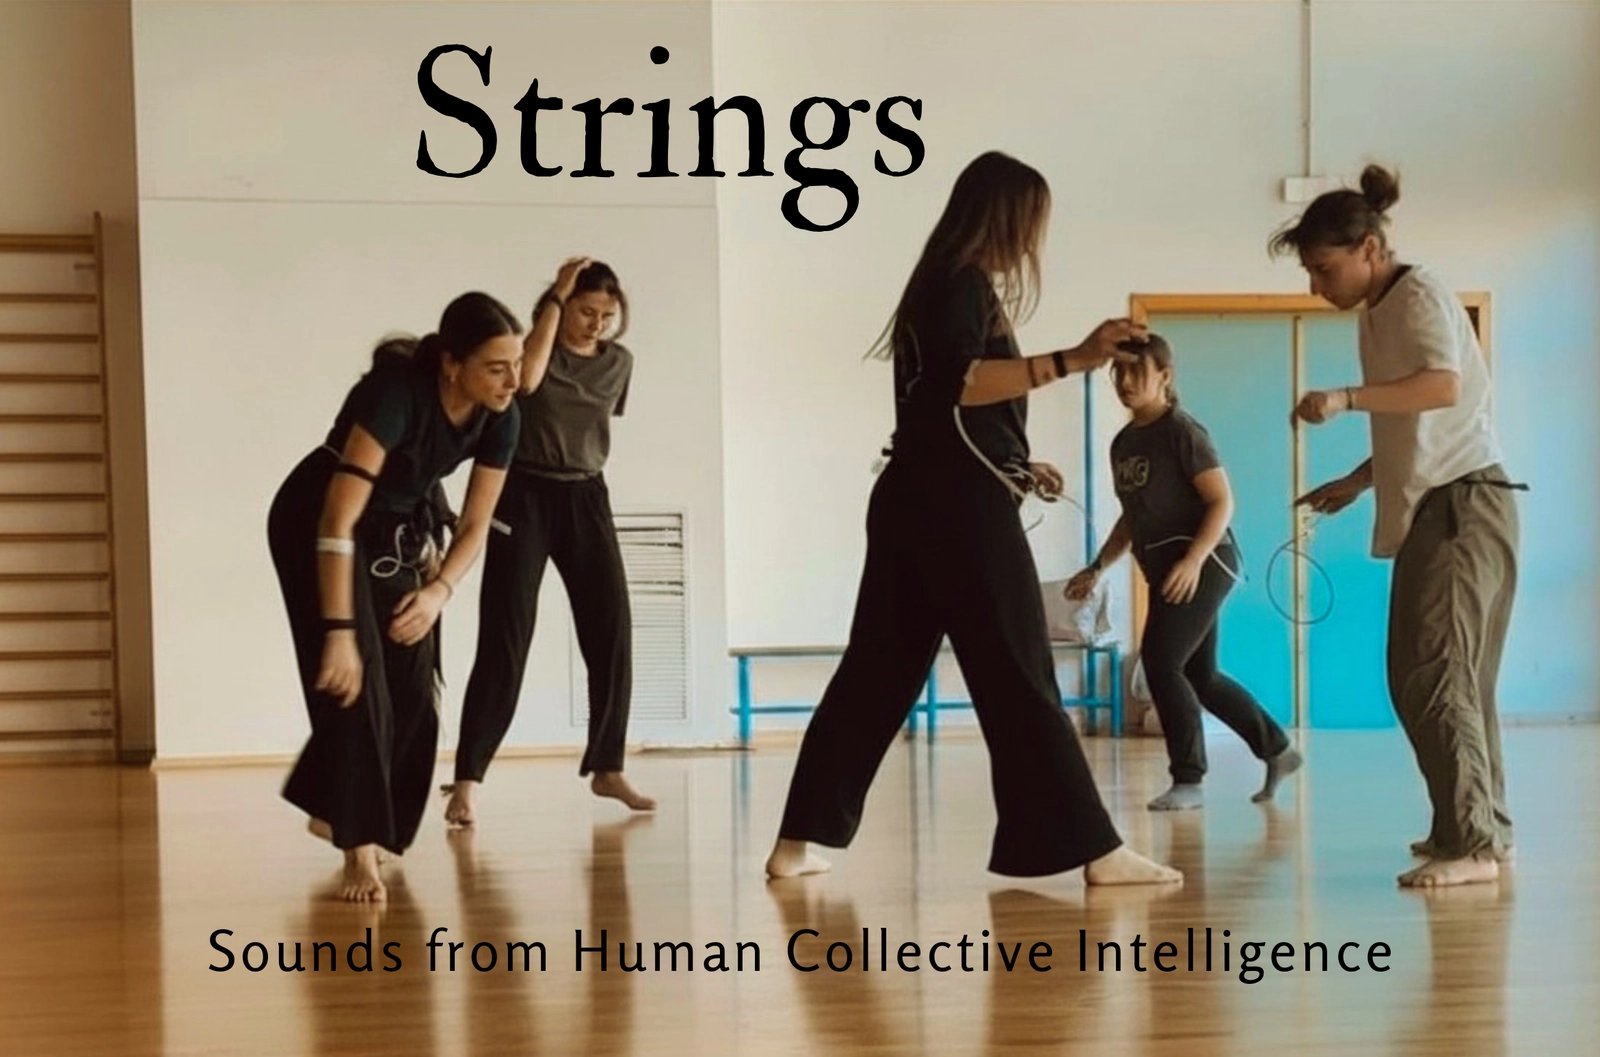
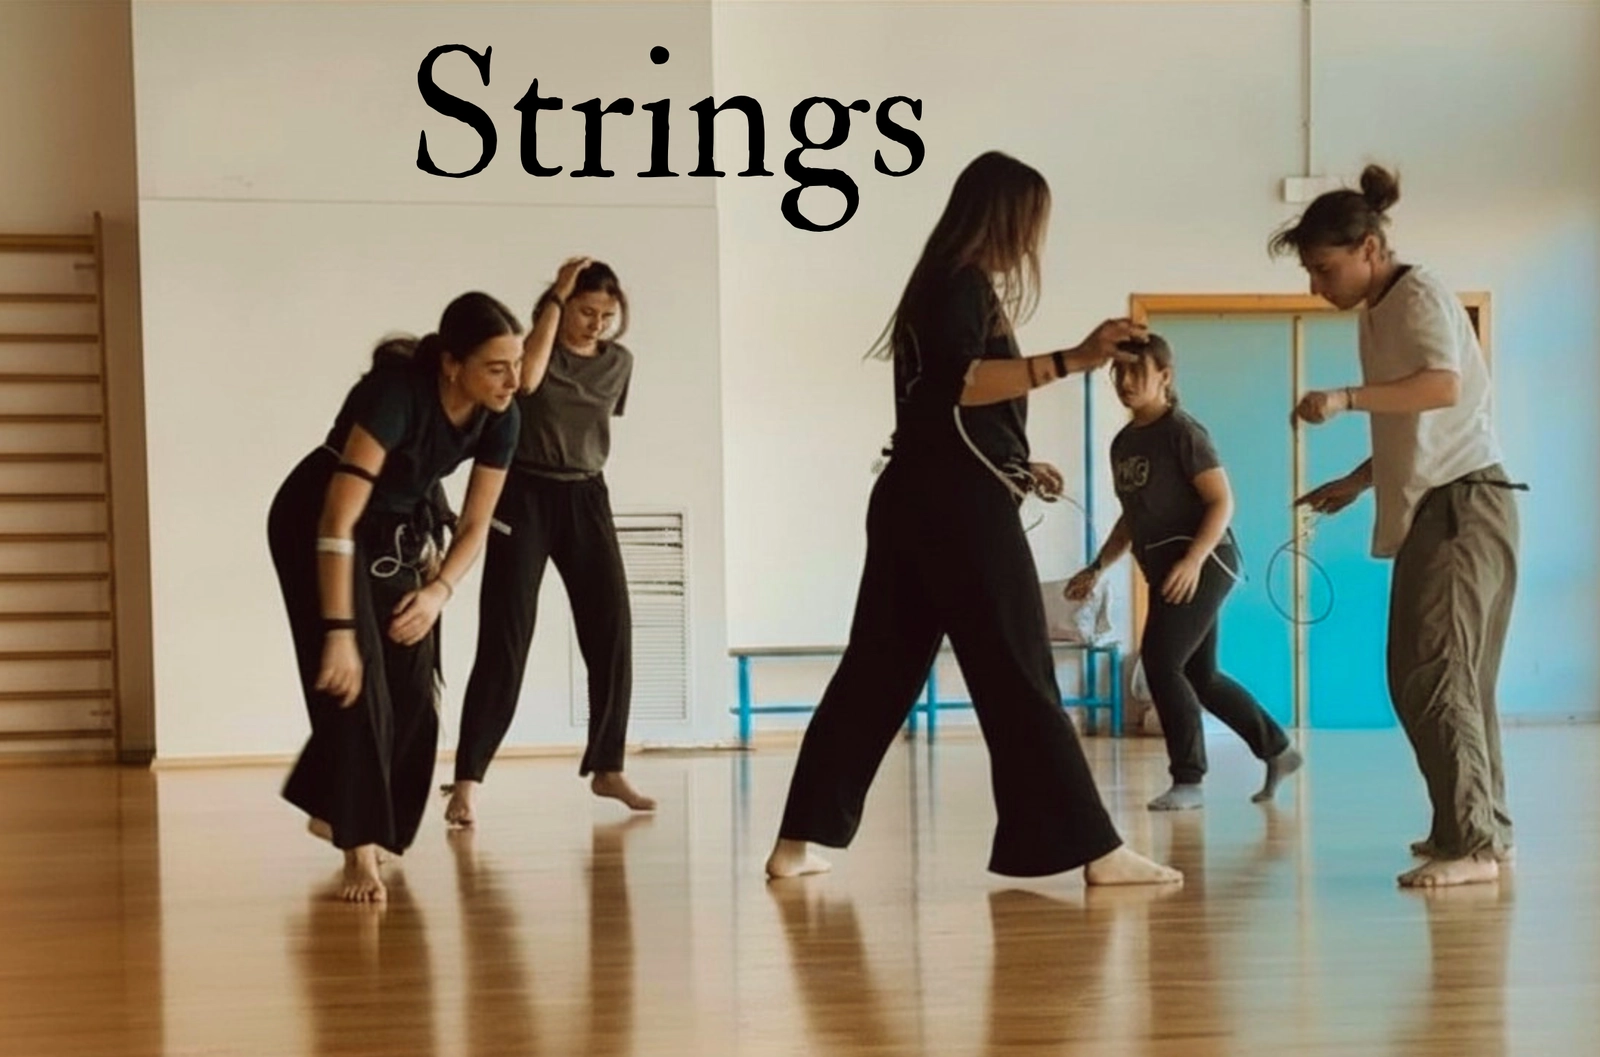
New updates

Changed region(s): [[0.125, 0.8742, 0.875, 0.9366]]

diff --git a/src/pages/Audiovisivamente/Distopie/Distopie.tsx b/src/pages/Audiovisivamente/Distopie/Distopie.tsx
@@ -72,30 +72,6 @@ const Distopie = () => {
                 />
             </div>
 
-            <section className="section bottom">
-                <div ref={heroDescrRef2} className={`content hero_desc_wrapper ${inViewHeroDescr2 ? "inView" : ""}`}>
-                    <p lang="it">
-                        Le studentesse dell'Istituto Tecnico Economico e Tecnologico Statale Lenoci Euclide,
-                        in un percorso formativo coinvolgente e super creativo, guidato dal regista Antonio Palumbo
-                        hanno appreso le basi della produzione filmica e si sono subito messe alla prova con la realizzazione
-                        di un cortometraggio sull'uso sconsiderato dell'Intelligenza Artificiale.
-                    </p>
-                </div>
-                <div ref={bottomRef}>
-                    <MagazineGallery images={filmImages} inView={inViewBottom} />
-                </div>
-            </section>
-            <section className="section top"></section>
-
-            <div className="image-gap">
-                <img
-                    src={withPublicUrl('/loghi/avorio_caldo_trasparente (1).png')}
-                    alt={'Audiovisivamente'}
-                    className="scrapbookPhoto"
-                    style={{maxWidth: '600px', height: 'auto', filter: 'drop-shadow(1px 4px 2px rgba(26, 26, 26, 0.335))'}}
-                />
-            </div>
-
             <section className="section bottom heroAudio pb-40">
                 <h1 ref={heroTextRefBot} className={`heroTitle ${inViewHeroTextBot ? "inView" : ""}`}>Cortometraggio</h1>
 
@@ -112,6 +88,32 @@ const Distopie = () => {
                     <source src="https://pub-3e8f1f8594254c93a49fb4e5bef03ab0.r2.dev/MASTER_LOVE%20BOT.mp4" type="video/mp4"/>
                 </video>
             </section>
+            
+            <section className="section top"></section>
+
+            <div className="image-gap">
+                <img
+                    src={withPublicUrl('/loghi/avorio_caldo_trasparente (1).png')}
+                    alt={'Audiovisivamente'}
+                    className="scrapbookPhoto"
+                    style={{maxWidth: '600px', height: 'auto', filter: 'drop-shadow(1px 4px 2px rgba(26, 26, 26, 0.335))'}}
+                />
+            </div>
+
+            <section className="section bottom">
+                <div ref={heroDescrRef2} className={`content hero_desc_wrapper ${inViewHeroDescr2 ? "inView" : ""}`}>
+                    <p lang="it">
+                        Le studentesse dell'Istituto Tecnico Economico e Tecnologico Statale Lenoci Euclide,
+                        in un percorso formativo coinvolgente e super creativo, guidato dal regista Antonio Palumbo
+                        hanno appreso le basi della produzione filmica e si sono subito messe alla prova con la realizzazione
+                        di un cortometraggio sull'uso sconsiderato dell'Intelligenza Artificiale.
+                    </p>
+                </div>
+                <div ref={bottomRef}>
+                    <MagazineGallery images={filmImages} inView={inViewBottom} />
+                </div>
+            </section>
+
         </div>
     )
 }

diff --git a/src/pages/Audiovisivamente/Cineocchio/Cineocchio.tsx b/src/pages/Audiovisivamente/Cineocchio/Cineocchio.tsx
@@ -1,10 +1,31 @@
 import { useInView } from "react-intersection-observer"
 import "../../page.scss"
+import { useEffect, useRef } from "react"
+import { sharedLogic } from "../../../general_services/shared_logic"
+import './cineocchio.scss'
 
 
 const Cineocchio = () => {
     const [heroTextRef, inViewHeroText] = useInView({ threshold: .1, triggerOnce: false })
     const [heroDescrRef, inViewHeroDescr] = useInView({ threshold: .1, triggerOnce: false })
+
+    const videoCortoRef = useRef<HTMLVideoElement>(null)
+    const POSTER_CORTO = sharedLogic.withPublicUrl('/immagini-pagine/audiovisivamente/distopie/cortometraggio-lenoci/distopie-poster.jpg') as string
+
+    useEffect(() => {
+        const video = videoCortoRef.current
+        if (!video) return
+        const onPlay = () => {
+            if (!('mediaSession' in navigator)) return
+            navigator.mediaSession.metadata = new MediaMetadata({
+                title: 'Cineocchio — Cortometraggio',
+                artist: 'Talea Produzioni',
+                artwork: [{ src: POSTER_CORTO, sizes: '512x512', type: 'image/jpeg' }],
+            })
+        }
+        video.addEventListener('play', onPlay)
+        return () => video.removeEventListener('play', onPlay)
+    }, [])
 
     return(
         <div className="page audiovisivamente__page" id="audiovisivamente__cineocchio">
@@ -40,6 +61,19 @@ const Cineocchio = () => {
                         scoprendo come nasce un parco che profuma di futuro.
                     </p>
                 </div>
+                
+                <video
+                    ref={videoCortoRef}
+                    playsInline
+                    webkit-playsinline
+                    controls
+                    preload="metadata"
+                    poster={POSTER_CORTO}
+                    crossOrigin="anonymous"
+                    id="videoCorto_cineocchio"
+                >
+                    <source src="https://pub-3e8f1f8594254c93a49fb4e5bef03ab0.r2.dev/MASTER_70126_ILCINEOCCHO.mp4" type="video/mp4"/>
+                </video>
             </section>
 
         </div>
@@ -47,3 +81,7 @@ const Cineocchio = () => {
 }
 
 export default Cineocchio
+
+function withPublicUrl(arg0: string) {
+    throw new Error("Function not implemented.")
+}

diff --git a/src/pages/HomePage/HomePage.tsx b/src/pages/HomePage/HomePage.tsx
@@ -142,7 +142,7 @@ const HomePage = () => {
                         id="talea_home_card_5" 
                         imgSrc={withPublicUrl(`/immagini-pagine/homepage/Strings.webp`)} 
                         imgAlt="Sounds from Human Collective Intelligence"
-                        overlayText="Sounds from Human Collective Intelligence"
+                        overlayText=""
                         backText={
                             <div className="flex flex-column backText">
                                 <h3 className="backTitle primaryColor">
@@ -158,7 +158,7 @@ const HomePage = () => {
                                 </p>
                             </div>
                         }
-                        cardTitle=""
+                        cardTitle="Sounds from Human Collective Intelligence"
                     />
                     <FlippingCardCK 
                         id="talea_home_card_3" 

diff --git a/src/pages/Servizi/Servizi.tsx b/src/pages/Servizi/Servizi.tsx
@@ -50,7 +50,7 @@ const Servizi = () => {
             servizio: "Noleggio drone con operatore"
         },
         {
-            title: "360° Eco-Virtual Tour",
+            title: "360° ECO-VIRTUAL TOUR",
             description: "Progettazione di tour in Realtà Virtuale (VR) e Aumentata (AR) con tecnologia video 360 e audio tridimensionale. Integriamo riprese sferiche e microfoni ambisonici per una ricostruzione spaziale dinamica del suono, ottimizzando la fruizione immersiva tramite visori VR e dispositivi mobili. Un workflow tecnico avanzato per la valorizzazione di percorsi eco-sostenibili attraverso esperienze sensoriali interattive e spazializzate.",
             nameInURL: "immagini-pagine/servizi/Virtual_tour_Talea.jpeg",
             servizio: "360° Eco-Virtual Tour"

diff --git a/src/pages/Audiovisivamente/Natura360/natura360.scss b/src/pages/Audiovisivamente/Natura360/natura360.scss
@@ -10,18 +10,10 @@
 }
 
 .natura360__player {
-    width: 90%;
-    max-width: 1200px;
+    width: 95%;
+    max-width: 1300px;
     margin: 0 auto;
     padding: 0 0 60px;
-}
-
-// ── YouTube iframe ───────────────────────────────────────────────────────────
-.natura360__youtube {
-    width: 100%;
-    aspect-ratio: 16 / 9;
-    border: none;
-    display: block;
 }
 
 // ── Local A-Frame player ─────────────────────────────────────────────────────

diff --git a/src/pages/HomePage/HomePage.scss b/src/pages/HomePage/HomePage.scss
@@ -208,6 +208,21 @@
             }
         }
     }
+        #talea_home_card_5 {
+            .cardTitle {
+                color: #111111 !important;
+                flex: 0 0 auto !important;
+                font-size: clamp(13px, 2vw, 30px) !important;
+                font-weight: 600 !important;
+                margin: 0;
+                min-width: fit-content;
+                position: absolute;
+                bottom: 20px;
+                left: 0px;
+                width: 100%;
+                text-align: center;
+            }
+        }
 
     @keyframes scalingUp {
         to {

diff --git a/src/pages/Audiovisivamente/Natura360/Player360.tsx b/src/pages/Audiovisivamente/Natura360/Player360.tsx
@@ -106,7 +106,7 @@ const Player360 = ({ src, videoId, POSTER_SRC }: { src: string, videoId: string,
                     style={{ backgroundImage: `url(${POSTER_SRC})` }}
                 >
                     <span className="player360__playIcon">▶</span>
-                    <span className="player360__playLabel">Guarda il Virtual Tour 360° Possiamo metter cio' che vogliamo</span>
+                    <span className="player360__playLabel">ECO-VIRTUAL-TOUR</span>
                 </button>
             )}
 

diff --git a/src/pages/Audiovisivamente/Natura360/Natura360.tsx b/src/pages/Audiovisivamente/Natura360/Natura360.tsx
@@ -30,7 +30,7 @@ const Natura360 = () => {
             </section>
 
             <section className="natura360__player">
-                <p className="natura360__label">Costa Ripagnola - Video 1</p>
+                {/* <p className="natura360__label">ECO-VIRTUAL-TOUR</p> */}
                 <Player360 src={VIDEO_SRC_7} POSTER_SRC={POSTER_SRC} videoId="video360_1" />
             </section>
         </div>

diff --git a/src/general_services/shared_logic.tsx b/src/general_services/shared_logic.tsx
@@ -1,0 +1,5 @@
+class SharedLogic {
+    public withPublicUrl = (p: string) => `${process.env.PUBLIC_URL}${p.startsWith('/') ? '' : '/'}${p}`
+}
+
+export const sharedLogic =  new SharedLogic

diff --git a/src/pages/Audiovisivamente/Cineocchio/cineocchio.scss b/src/pages/Audiovisivamente/Cineocchio/cineocchio.scss
@@ -1,0 +1,6 @@
+#audiovisivamente__cineocchio {
+    #videoCorto_cineocchio {
+        height: 90dvh;
+        width: auto;
+    }
+}
